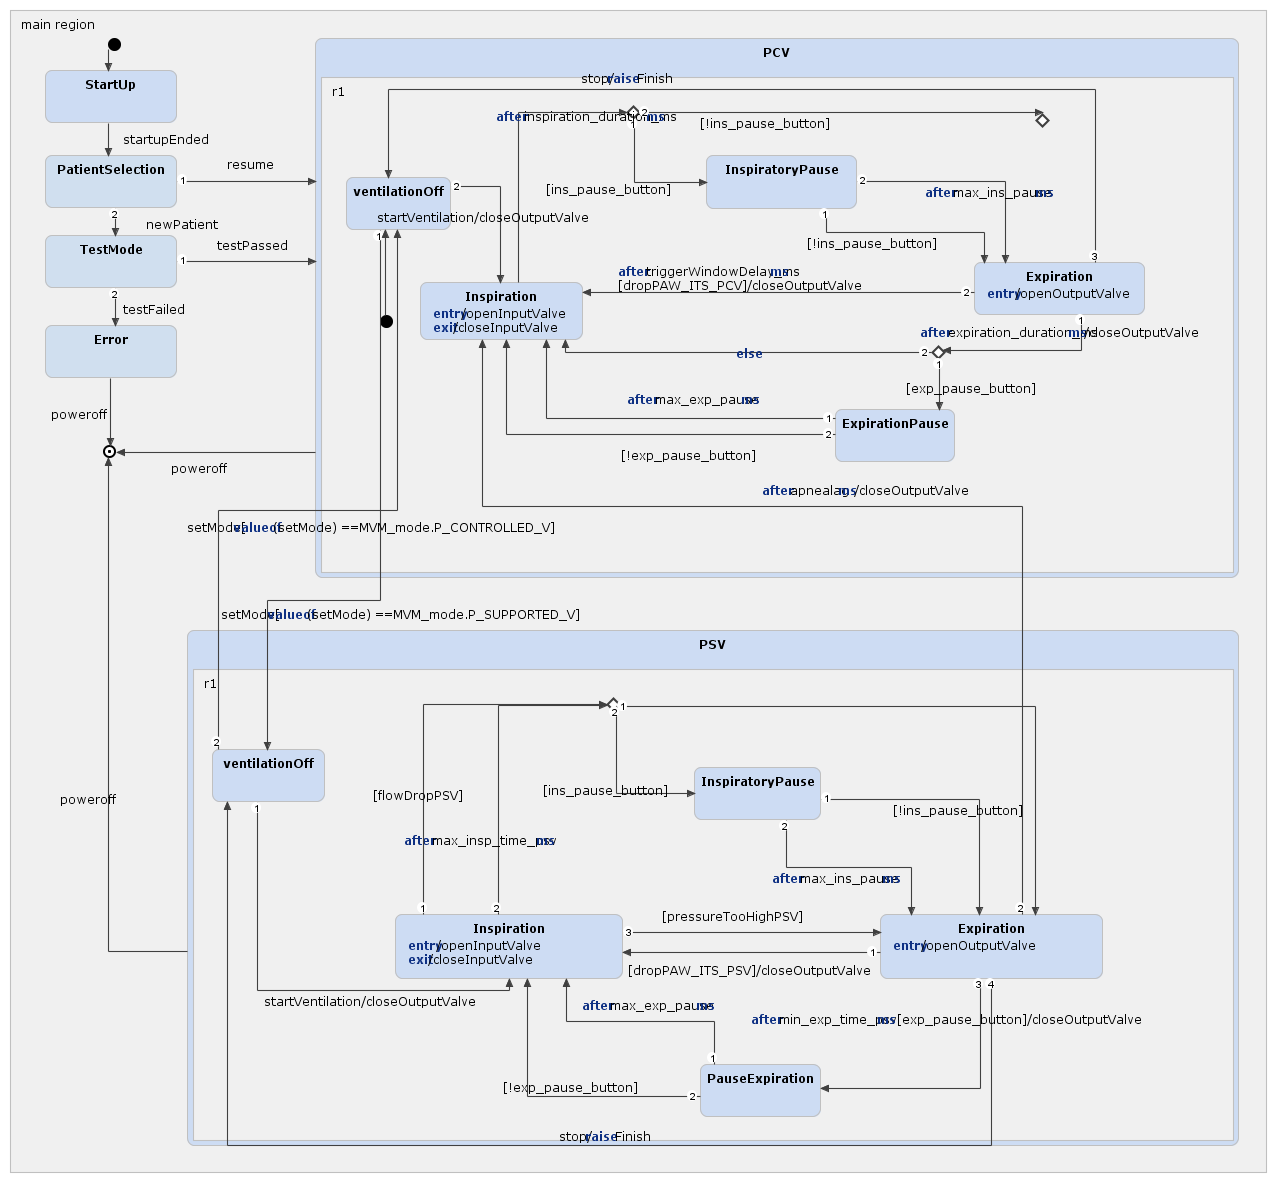
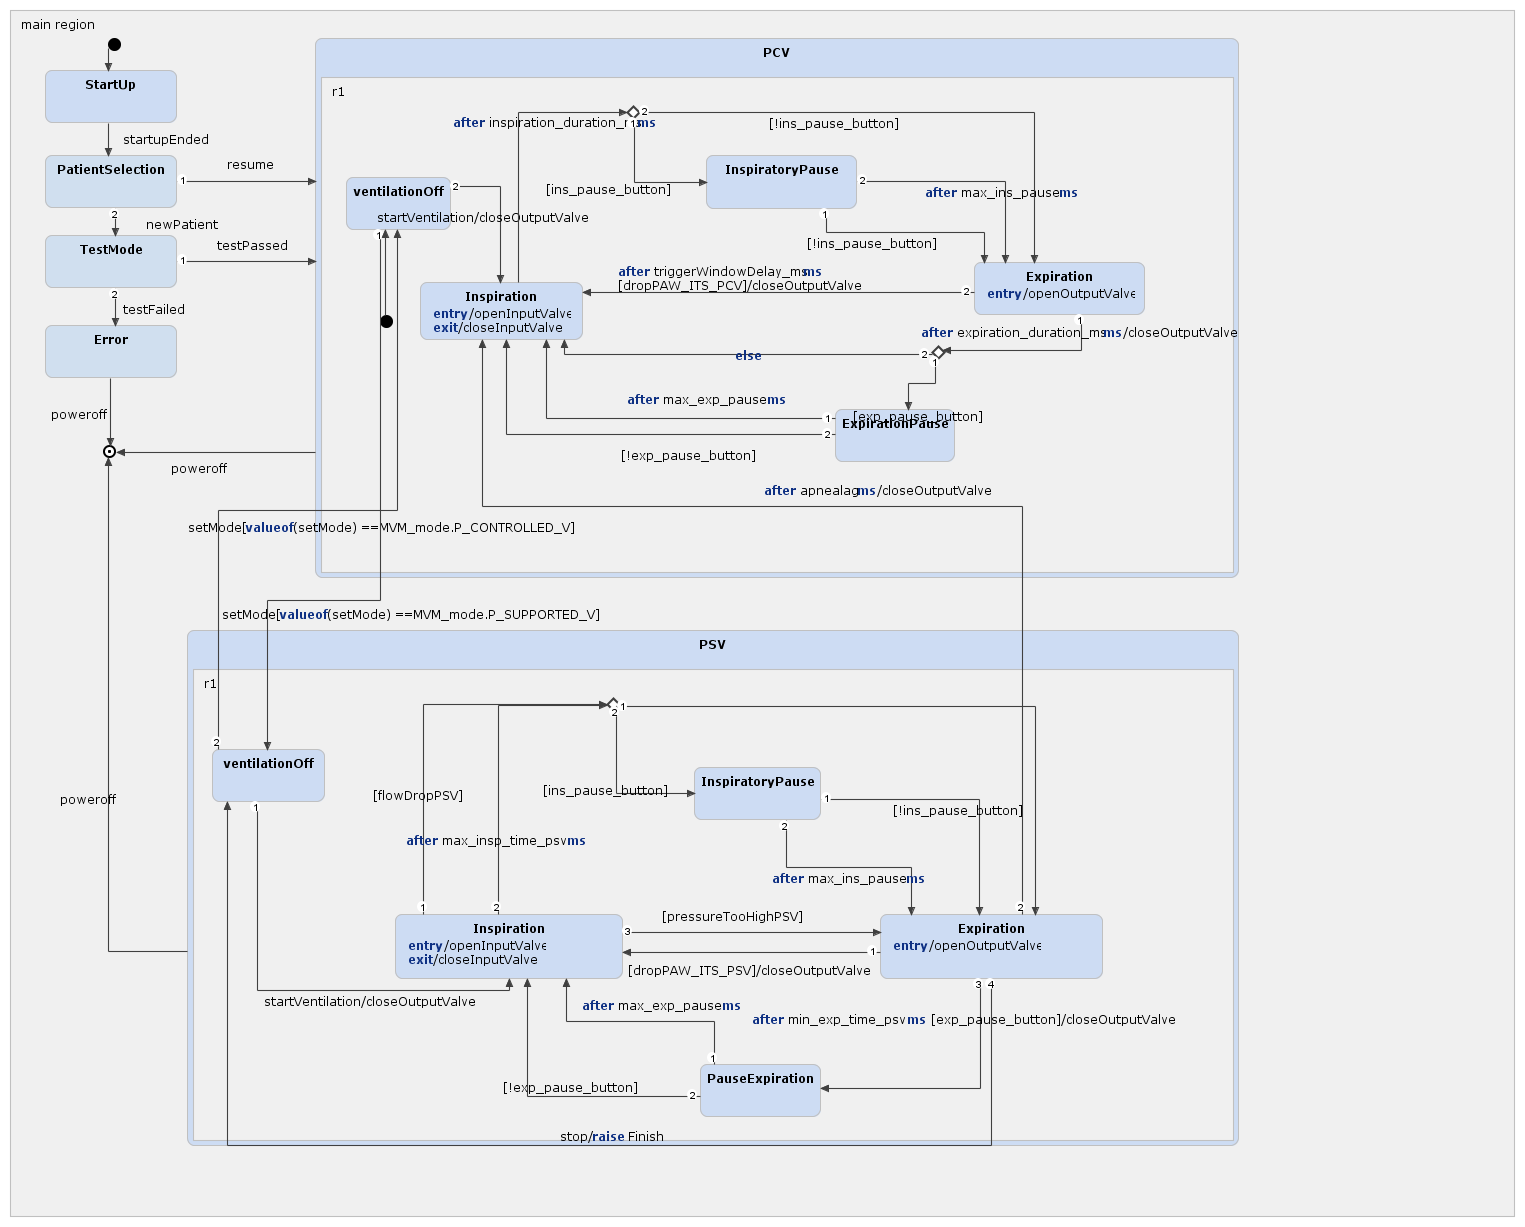
update

diff --git a/mvm-sm-yakindu/src/MVMStateMachineOCBs.cpp b/mvm-sm-yakindu/src/MVMStateMachineOCBs.cpp
@@ -9,7 +9,7 @@ sc_boolean MVMStateMachineOCBs::pressureTooHighPSV() {
 	return true;
 }
 
-sc_boolean MVMStateMachineOCBs::dropPressurePCV() {
+sc_boolean MVMStateMachineOCBs::dropPAW_ITS_PCV() {
 	std::cout << "checking dropPressurePCV" << std::endl;
 	return true;
 }
@@ -31,3 +31,15 @@ void MVMStateMachineOCBs::openOutputValve() {
 }
 
 
+sc_boolean MVMStateMachineOCBs:: flowDropPSV(){
+	std::cout << "start expiration - open out valve" << std::endl;
+	return false;
+}
+
+sc_boolean dropPAW_ITS_PSV(){
+	return false;
+}
+
+sc_boolean pressureTooHighPSV(){
+	return false;
+}

diff --git a/mvm-sm-yakindu/src/MVMStateMachineOCBs.h b/mvm-sm-yakindu/src/MVMStateMachineOCBs.h
@@ -9,7 +9,6 @@ public:
 	MVMStateMachineOCBs(MVMStateMachine* machine){}
 	virtual ~MVMStateMachineOCBs();
 
-	virtual sc_boolean pressureTooHighPSV();
 
 	virtual void closeInputValve();
 
@@ -19,7 +18,22 @@ public:
 
 	virtual void openOutputValve();
 
-	virtual sc_boolean dropPressurePCV();
+	// PCV
+
+	virtual sc_boolean dropPAW_ITS_PCV();
+
+
+	// PSV
+
+	virtual sc_boolean pressureTooHighPSV();
+
+	virtual sc_boolean flowDropPSV();
+
+	virtual sc_boolean dropPAW_ITS_PSV();
+
+	virtual sc_boolean pressureTooHighPSV();
+
+
 };
 
 #endif /* MVMSTATEMACHINEOCBS_H_ */

diff --git a/mvm-sm-yakindu/src/mvm_machine_run.cpp b/mvm-sm-yakindu/src/mvm_machine_run.cpp
@@ -19,8 +19,8 @@ int main() {
 	bool running = false;
 	auto start = std::chrono::system_clock::now();
 	MVMStateMachine sm;
-	HAL myHAL;
-	sm.set_hal(&myHAL);
+	//HAL myHAL;
+	//sm.set_hal(&myHAL);
 	MVMStateMachineOCBs operationCallback(&sm);
 	sm.setDefaultSCI_OCB(&operationCallback);
 	std::cout << "init state machine" << std::endl;
